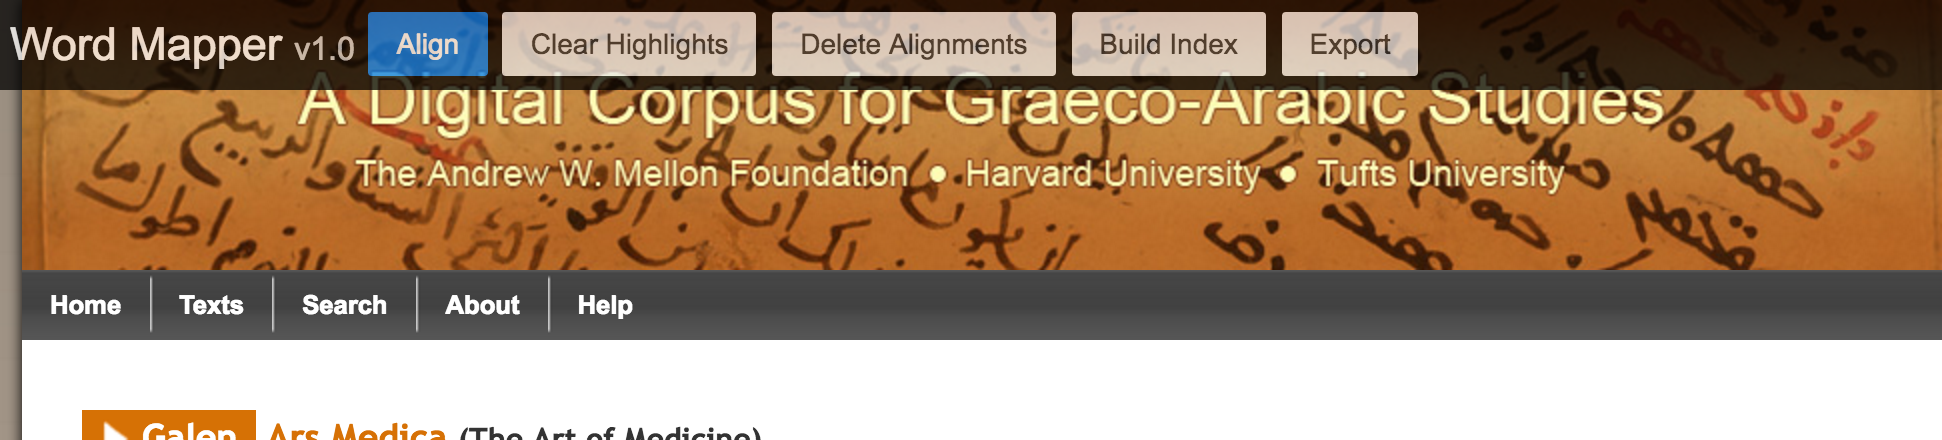
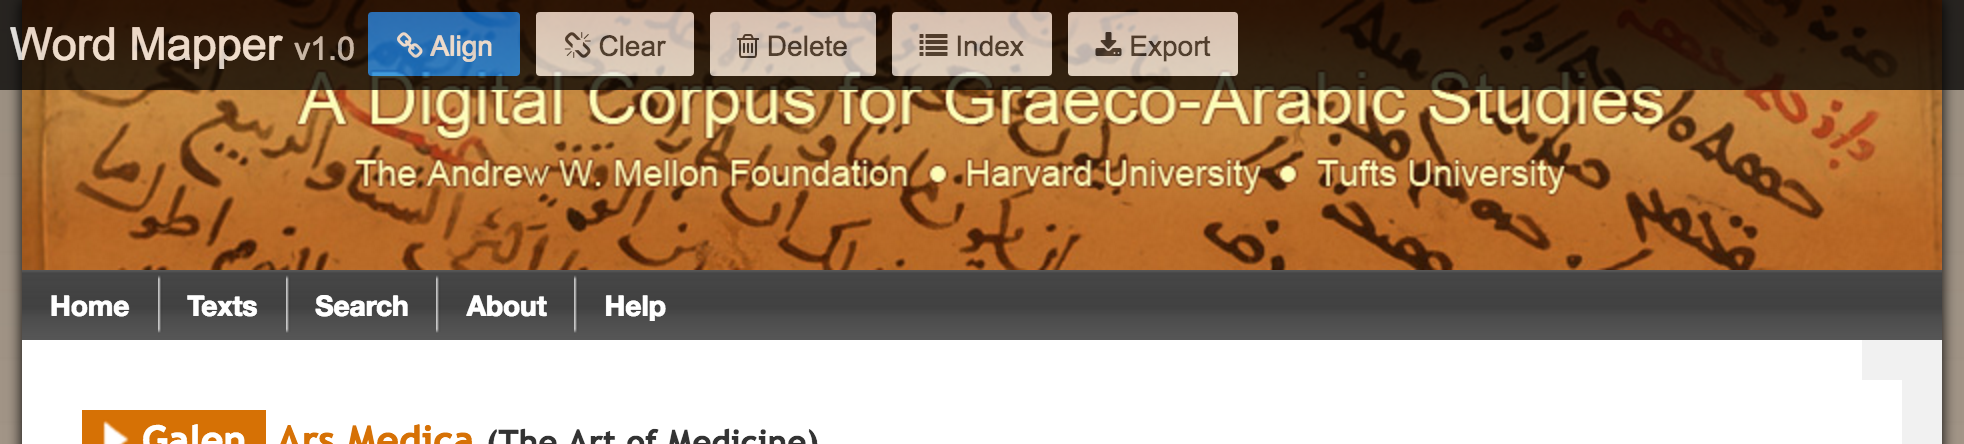
WordMapper_widget_icons, proposed screen and UI code.

diff --git a/WordMapper_widget_icons/index.html b/WordMapper_widget_icons/index.html
@@ -1,7 +1,18 @@
+<!-- UI comment - adding Bootstrap and Font-Awesome -->
+<link href="http://getbootstrap.com/dist/css/bootstrap.css" rel="stylesheet">
+<link href="http://fontawesome.io/assets/font-awesome/css/font-awesome.css" rel="stylesheet">
+
+<!-- UI comment - adding Font-awesome icons to each button -->
 <div class="wordmapper-buttons">
-    <button name="align" class="primary wordmapper-tooltip" title="Align highlighted words">Align</button>
-    <button name="clear_highlights" class="wordmapper-tooltip" title="Clear highlighted words">Clear Highlights</button>
-    <button name="clear_alignments" class="wordmapper-tooltip" title="Delete alignments" data-confirm="Are you sure you want to delete *ALL* alignments on this page?">Delete Alignments</button>
-    <button name="build_index" class="wordmapper-tooltip" title="Build index of aligned words">Build Index</button>
-    <button name="export" class="wordmapper-tooltip" title="Export the aligned words">Export</button>
+    <button name="align" class="primary wordmapper-tooltip" title="Align highlighted words"><i class="fa fa-link"></i> Align</button>
+
+<!-- UI comment, remove the word "Highlights" to be consistent with the othehr buttons and since the tooltip provides the information -->
+    <button name="clear_highlights" class="wordmapper-tooltip" title="Clear highlighted words"><i class="fa fa-unlink"></i> Clear</button>
+
+<!-- UI comment, removegthe word "Alignments" since it matches with the tooltip -->
+    <button name="clear_alignments" class="wordmapper-tooltip" title="Delete alignments" data-confirm="Are you sure you want to delete *ALL* alignments on this page?"><i class="fa fa-trash-o"></i> Delete</button>
+
+<!-- UI comment - Remove the word "Build" to be consistent with the other buttons, which show only one word, one verb -->
+    <button name="build_index" class="wordmapper-tooltip" title="Build index of aligned words"><i class="fa fa-list"></i> Index</button>
+    <button name="export" class="wordmapper-tooltip" title="Export the aligned words"><i class="fa fa-download"></i> Export</button>
   </div>
